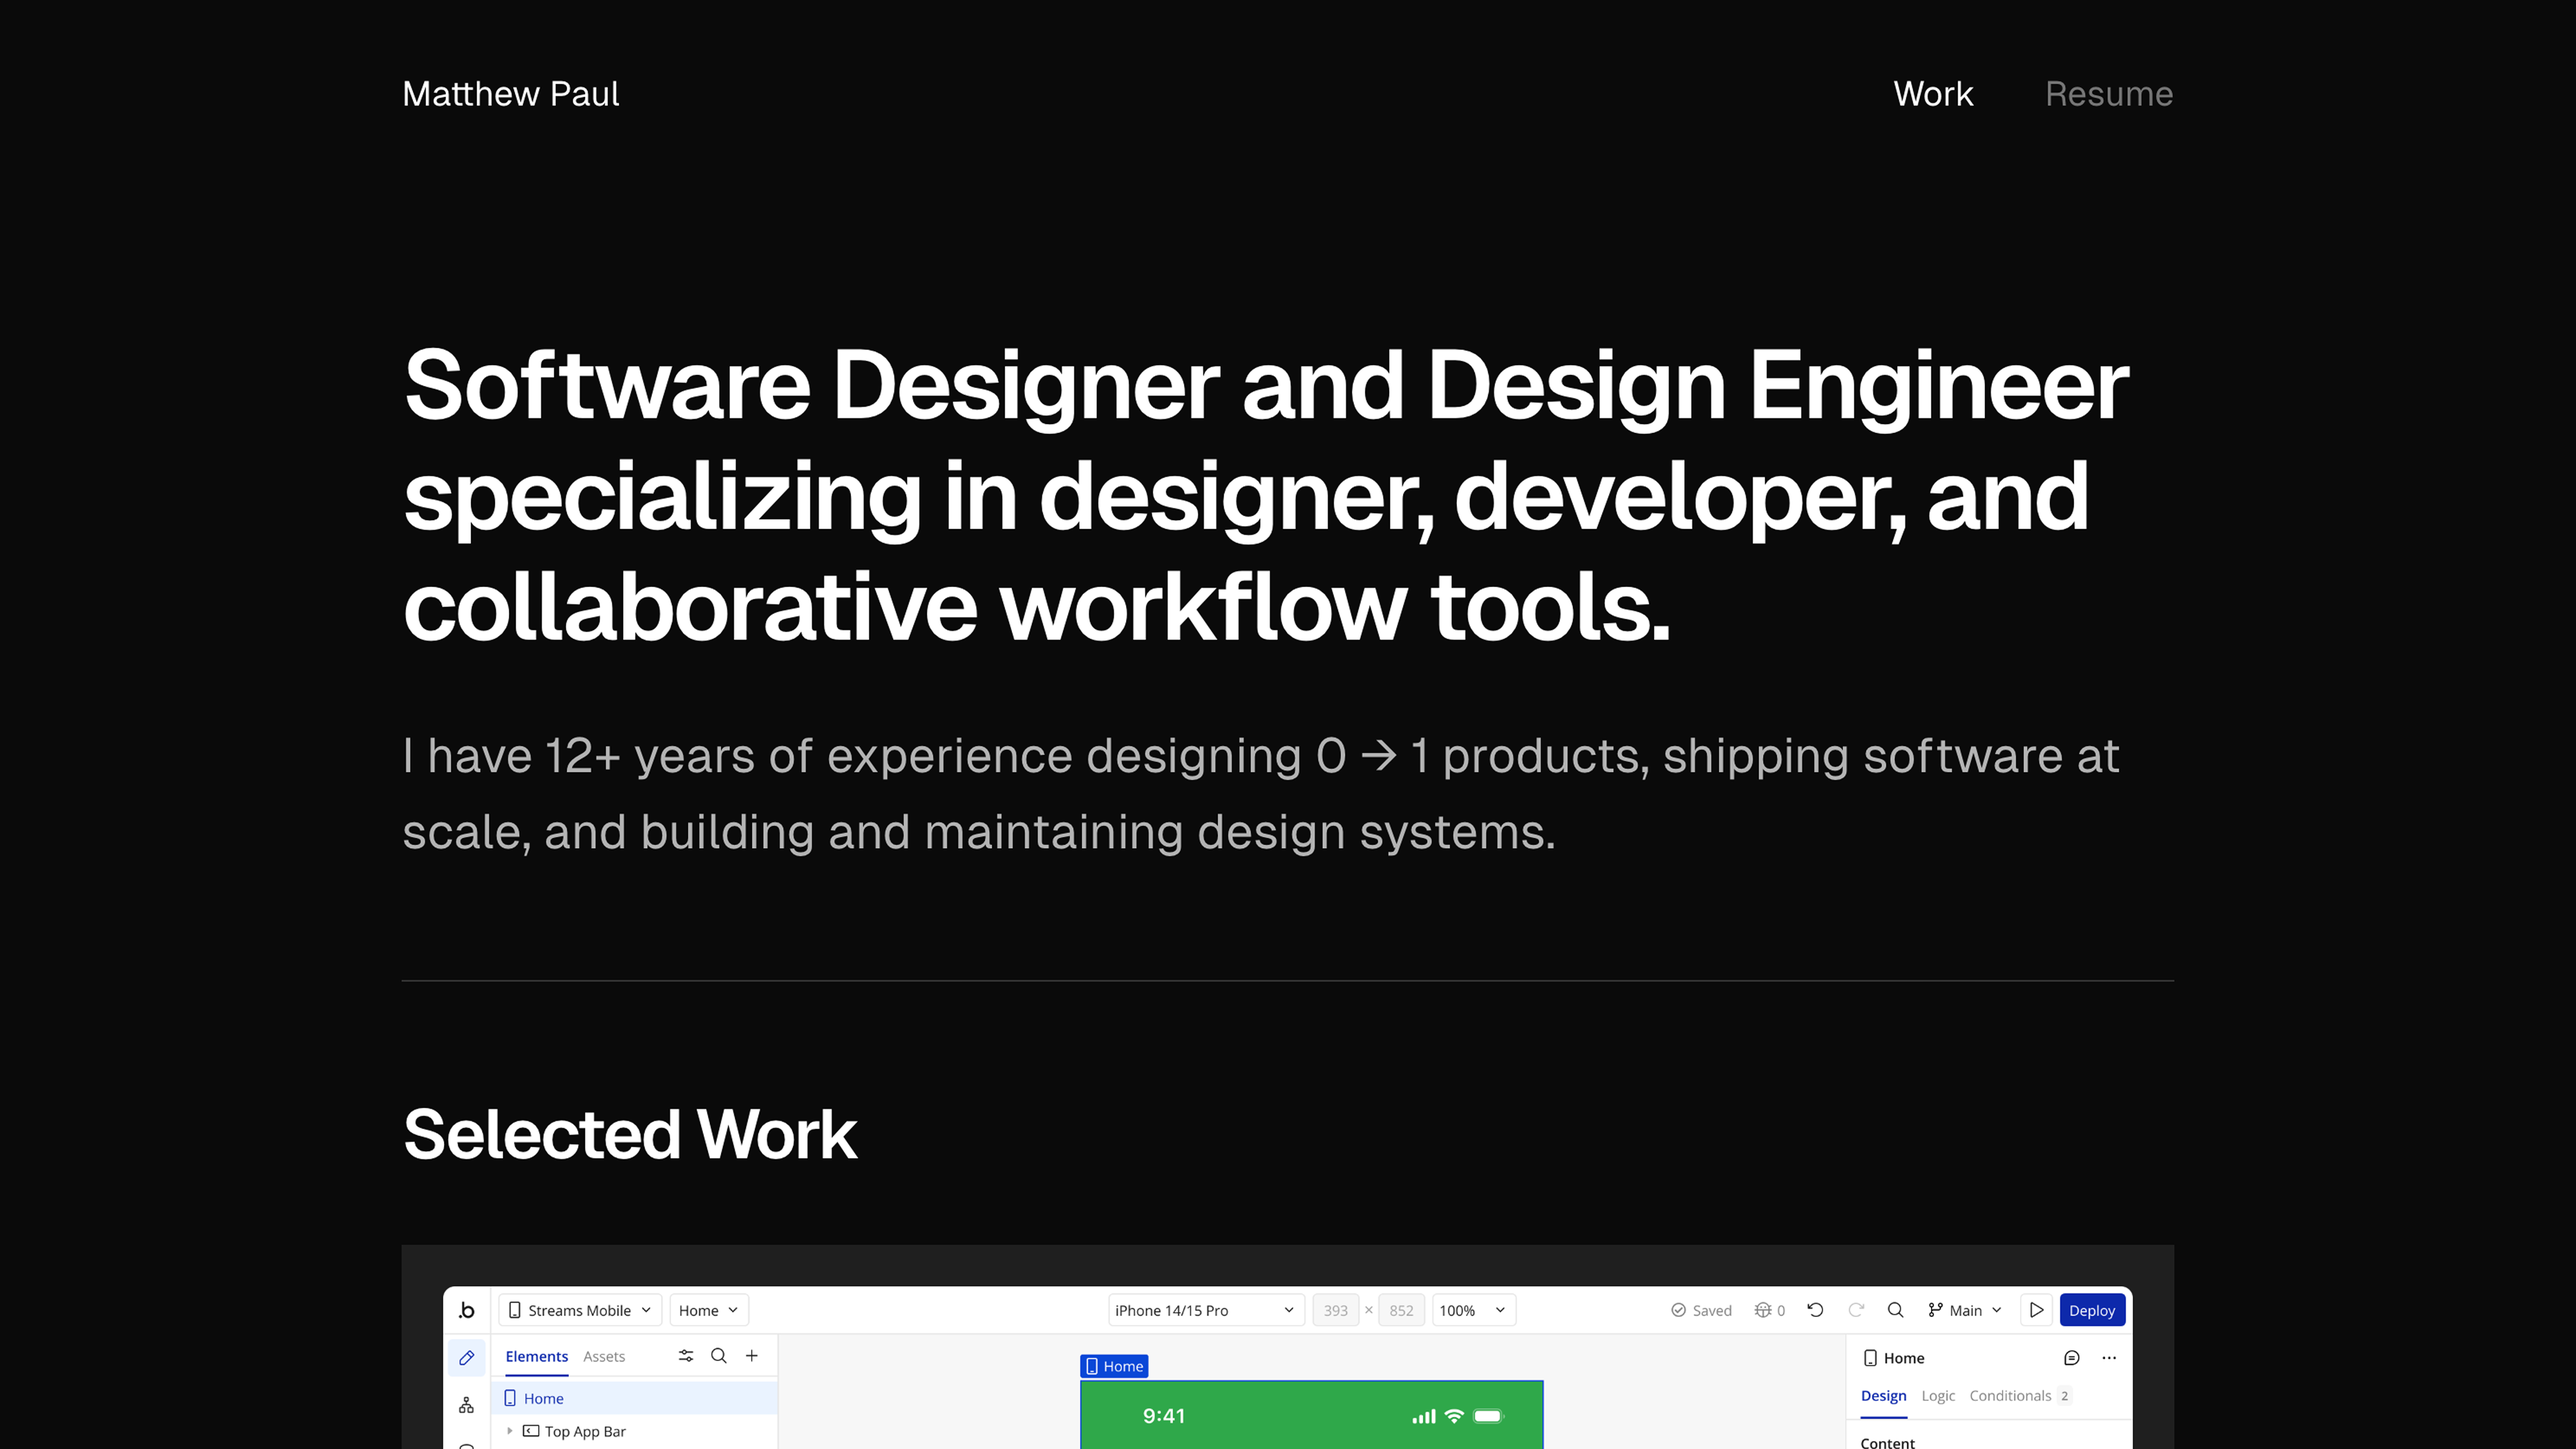
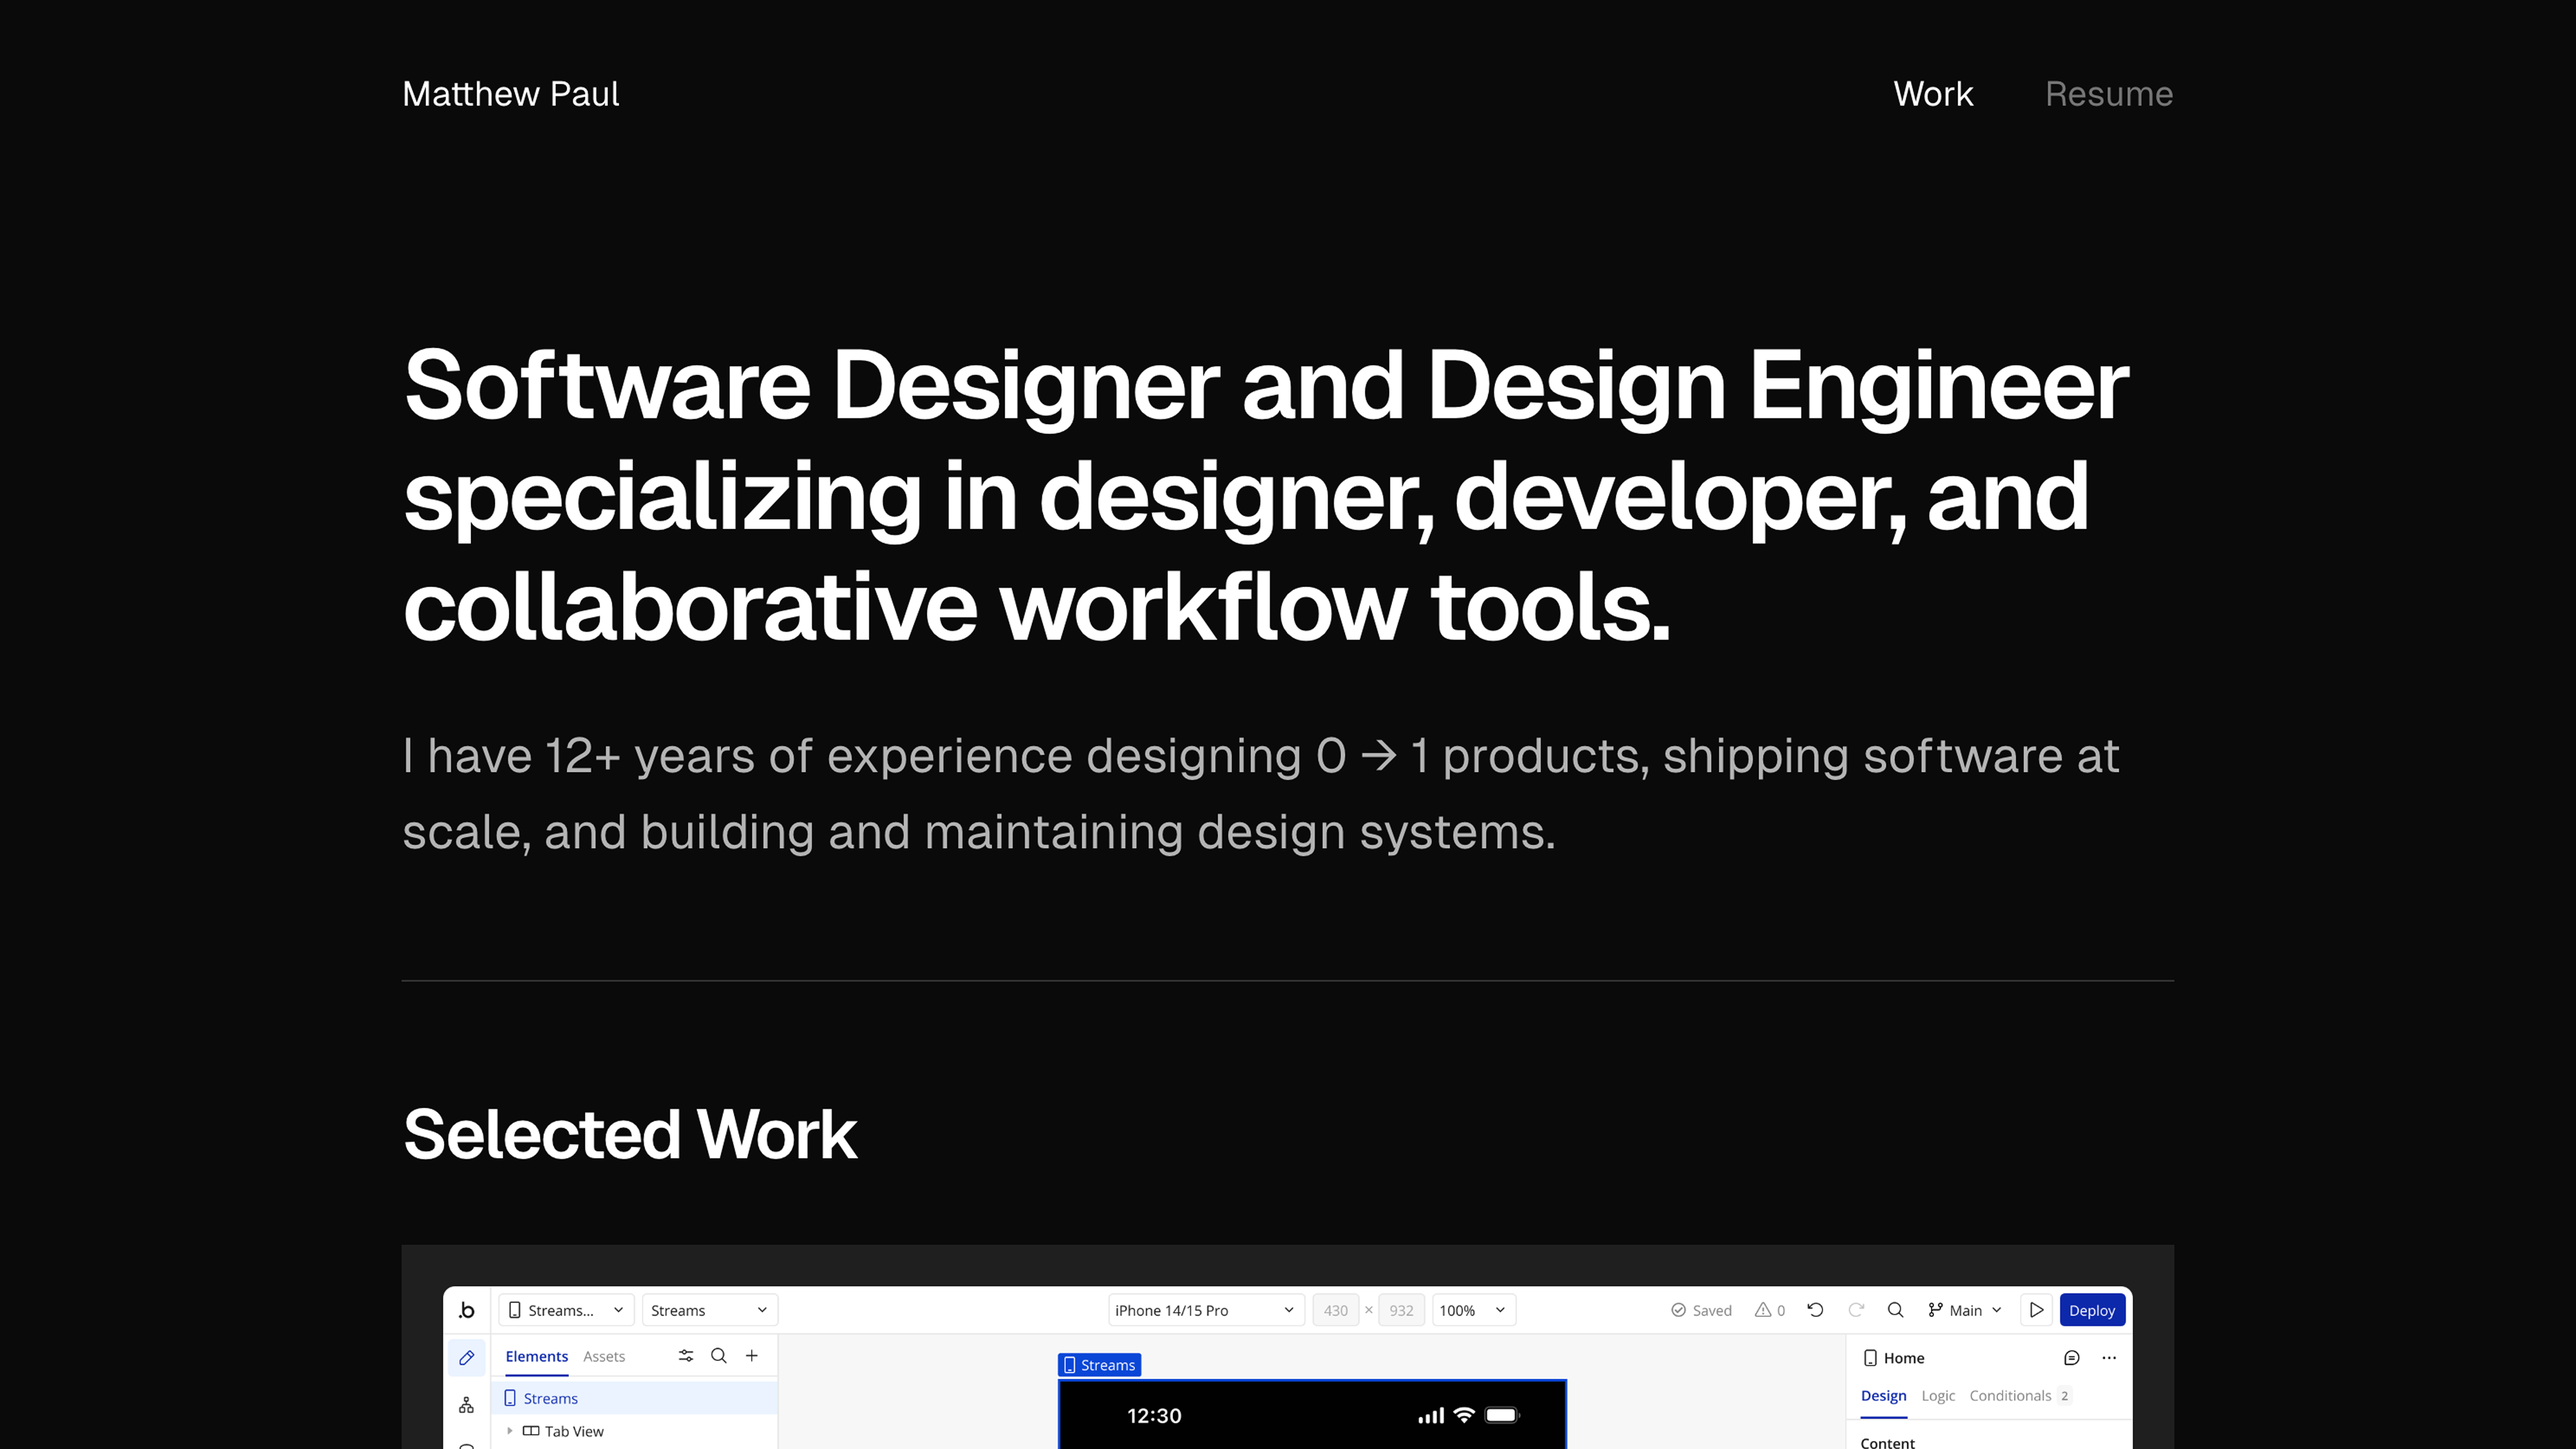
Update twitter card content string

Changed region(s): [[0.4062, 0.9333, 0.625, 1.0], [0.1875, 0.9644, 0.25, 0.9956]]

diff --git a/_layouts/work.html b/_layouts/work.html
@@ -19,7 +19,7 @@
 	<meta property="og:image" content="https://www.matthewcpaul.com/images/og/og-image.png"/>
 	<meta property="og:image:width" content="1200">
 	<meta property="og:image:height" content="630">
-	<meta name="twitter:card" content="Matthew Paul - Software Designer">
+	<meta name="twitter:card" content="summary_large_image">
 	<meta name="twitter:image" content="https://www.matthewcpaul.com/images/og/twitter-image.png">
 
 
